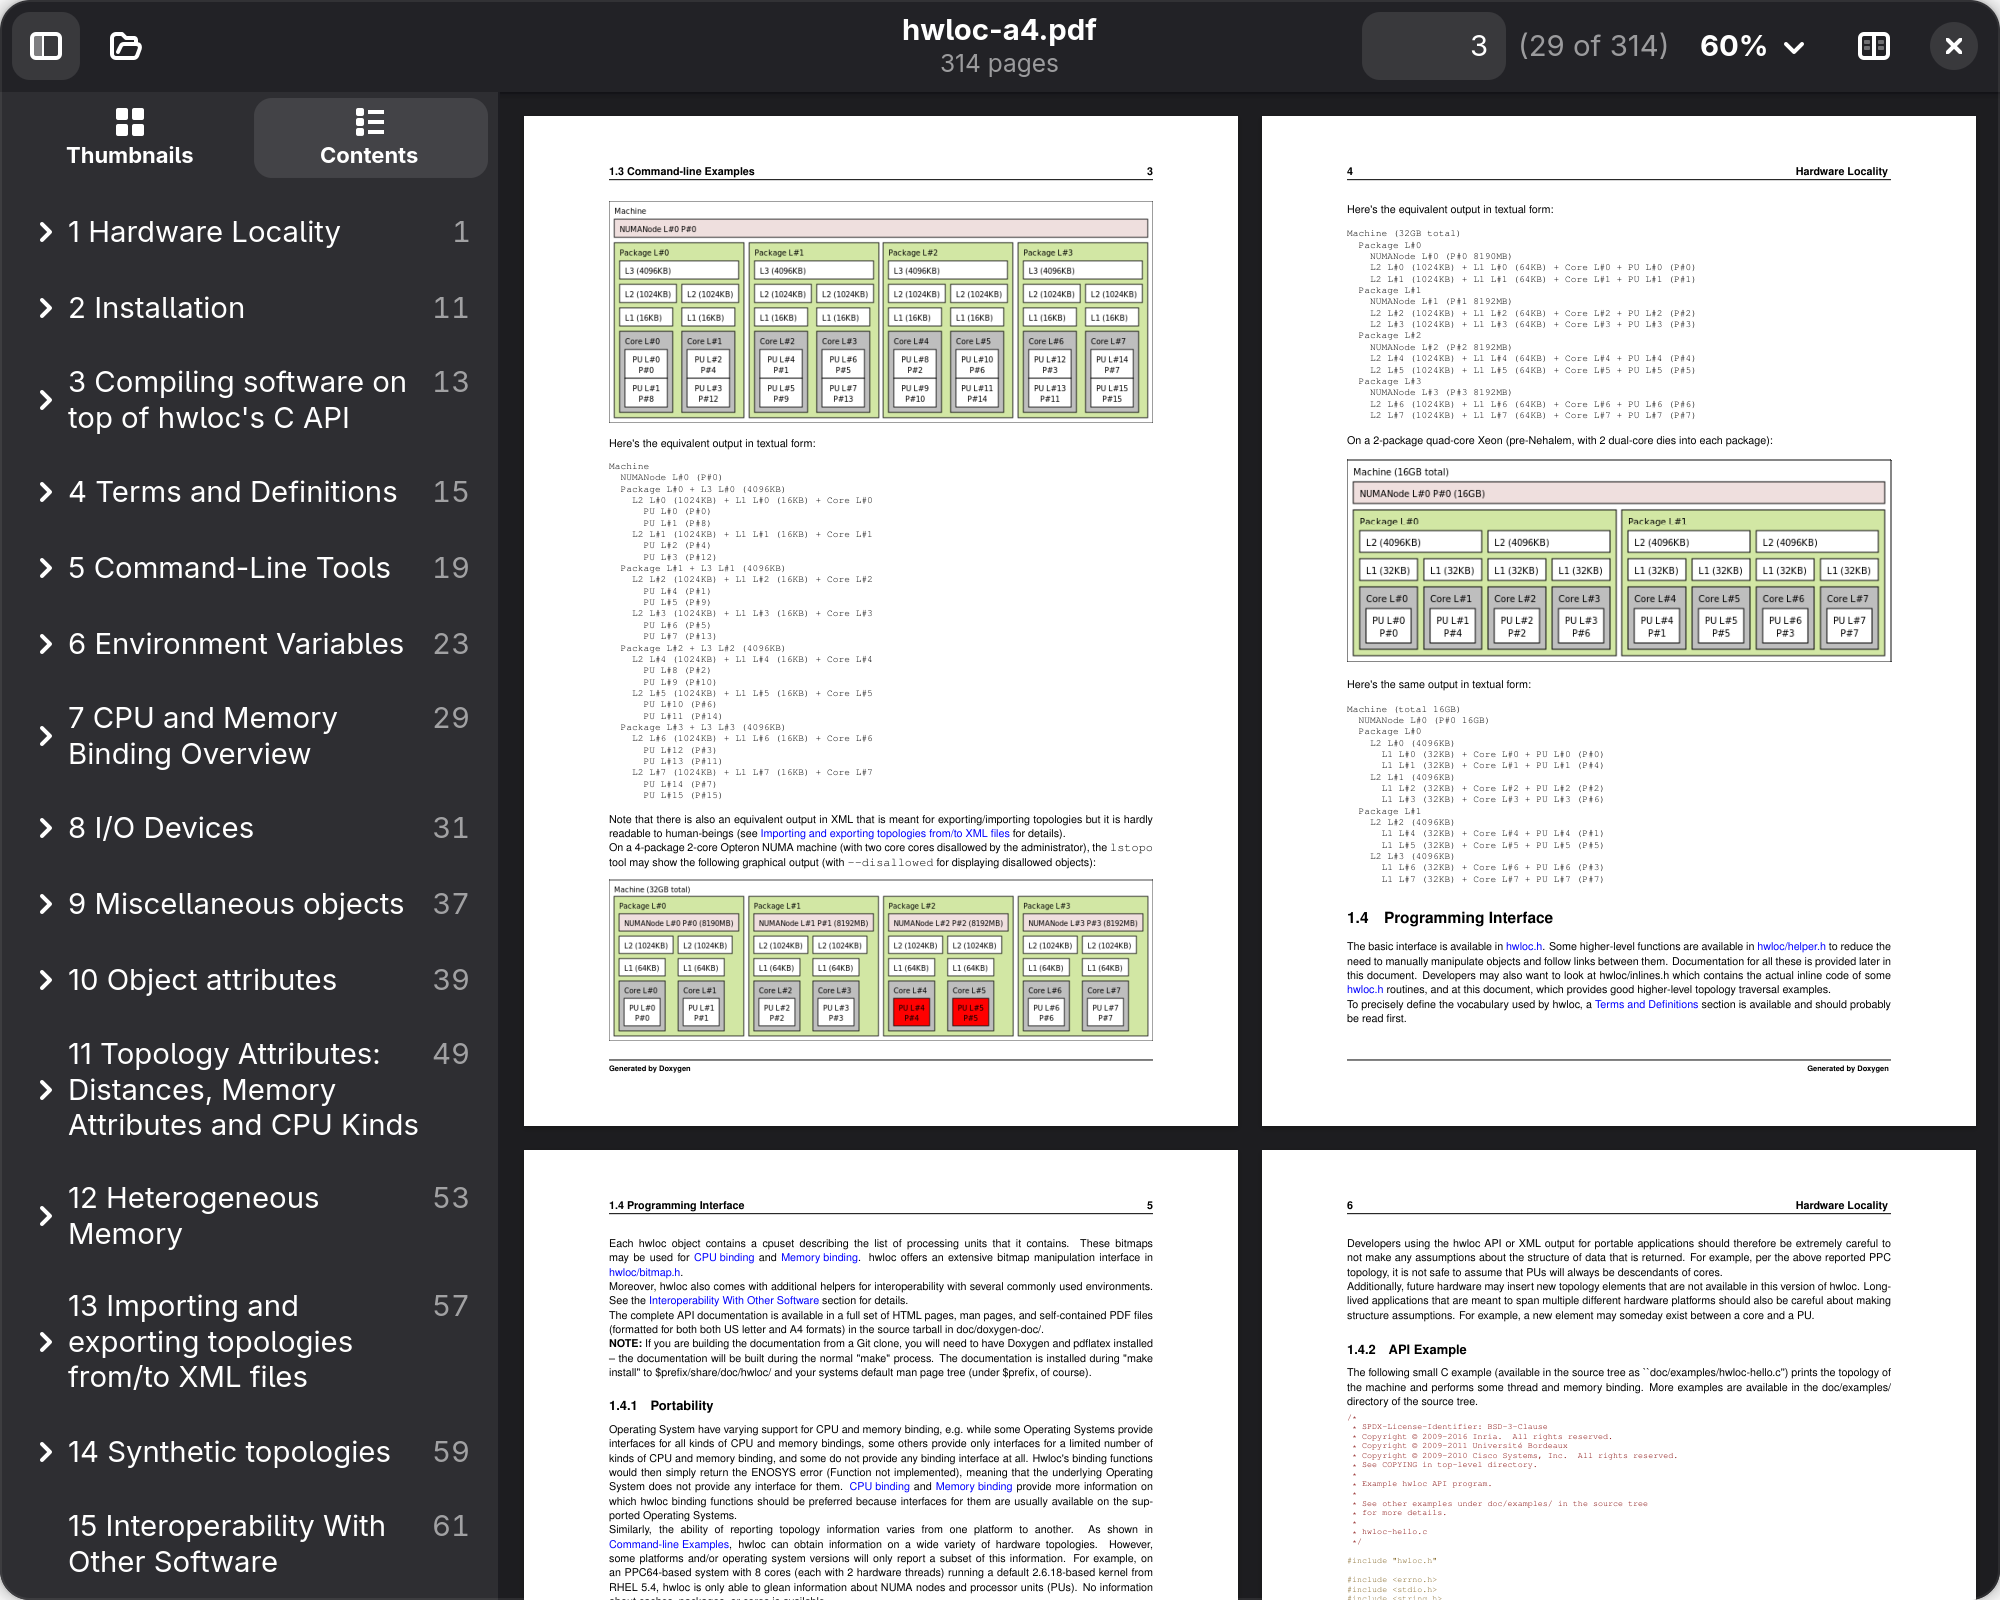
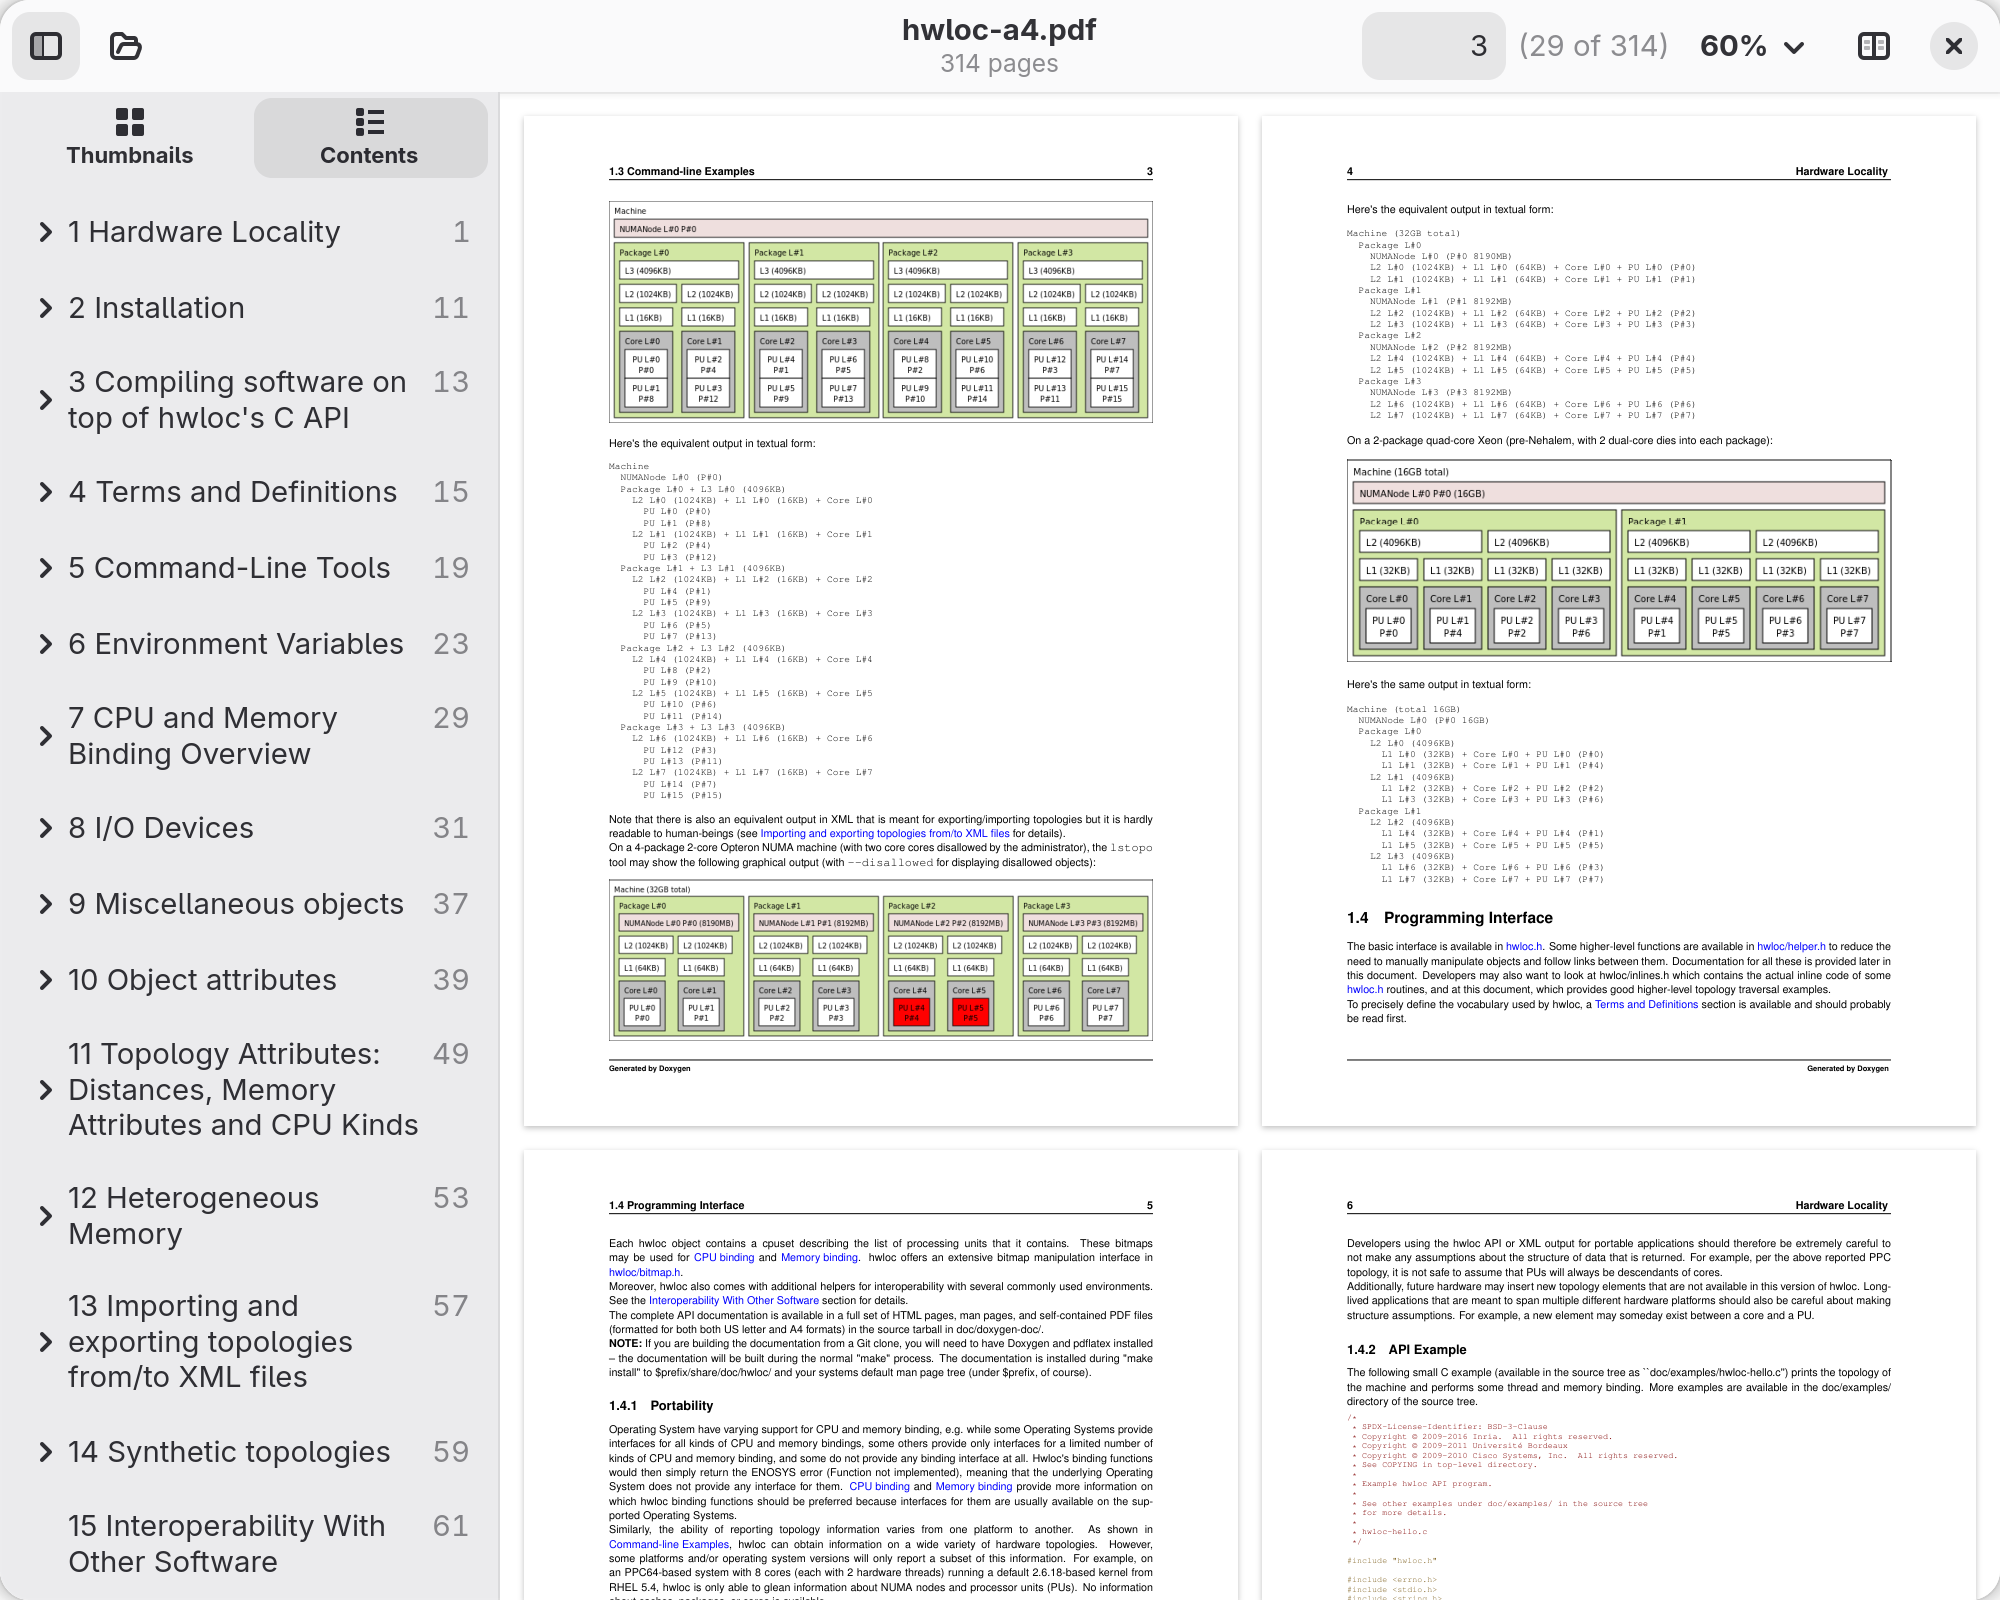
Re-does screenshot for READMES, changes goals table

diff --git a/apps/desktop/README.md b/apps/desktop/README.md
@@ -2,7 +2,9 @@
 
 A fast, responsive PDF viewer with light editing capabilities. Built with Rust and GTK 4, designed to fit in well on Linux with the GNOME desktop, but it also runs on macOS.
 
-<img src="screenshot.png" width="50%" alt="pdfrs showing two pages side by side, with the table of contents in the sidebar">
+<p align="center">
+  <img src="screenshot.png" width="50%" alt="pdfrs showing two pages side by side, with the table of contents in the sidebar">
+</p>
 
 There are several PDF readers for Linux, but few support basic editing, such as merging PDFs, rotating pages, adding annotations or filling in forms. The editors that do support these are often not pleasant to use. pdfrs is meant to fill that gap: not a full-fledged PDF editor, but enough to do the common things quickly.
 
